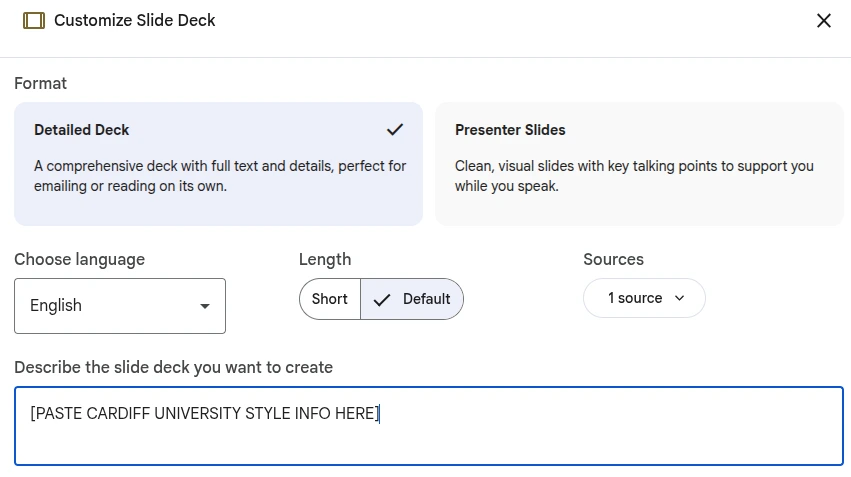
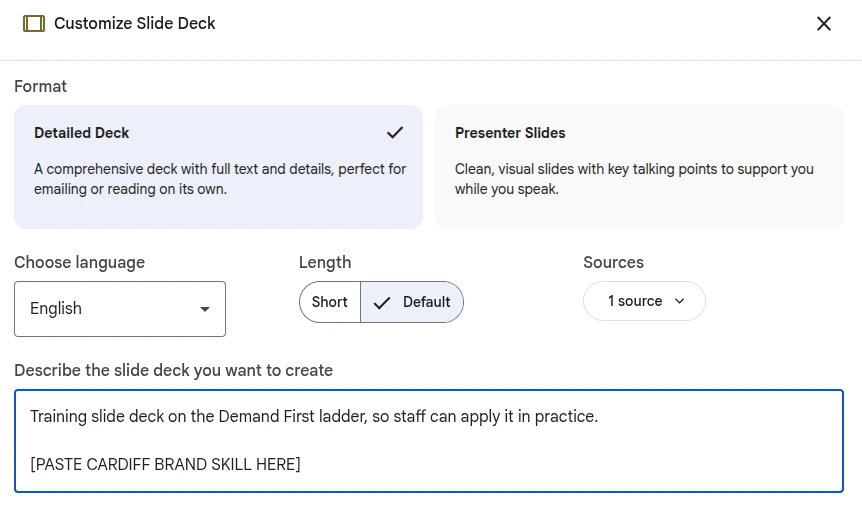
Rename the skill to Cardiff_Brand_SKILL.md, and flip the paste order
Matt's new screenshot of the Slide Deck dialog shows the prompt on the
first line and the skill pasted beneath it. Every instruction on the page
said the opposite, so anyone following it would have pasted them the wrong
way round. Corrected in the step body, the promptNote, the image alt and
the caption.

The rename covers make_artifacts.py, make_example_pdf.py, missions.js,
CLAUDE.md and the facilitator guide. The Python constant keeps its old
name: only the artefact handed out was renamed.

?doctor picks the new filename up automatically. Twelve files, all 200.

Claude-Session: https://claude.ai/code/session_01KojJyMqusRC38WKVGq91ET

diff --git a/src/data/missions.js b/src/data/missions.js
@@ -27,7 +27,7 @@
 //                                   participant's Deep Research quota is spent
 //                                   (5 runs a month on a base Education tier).
 //   Training_Module_Builder.md    - Exercises 04-06 hand out three working
-//   Cardiff_House_Style.md          skills as downloadable Markdown. They are
+//   Cardiff_Brand_SKILL.md          skills as downloadable Markdown. They are
 //   Fact_Check_Cardiff.md           generated by tools/make_artifacts.py and
 //                                   follow the Ordovera course-dev-skills
 //                                   anatomy: YAML front matter, an identity
@@ -310,9 +310,9 @@ const A = {
   },
   houseStyleSkill: {
     label: 'SKILL 2: MAKE IT CARDIFF',
-    filename: 'Cardiff_House_Style.md',
-    downloadPath: `${BASE}placeholders/Cardiff_House_Style.md`,
-    note: 'Builds it in Cardiff\'s voice and look. COPY it for the Slide Deck description box, or download it to attach in Copilot or Gemini.',
+    filename: 'Cardiff_Brand_SKILL.md',
+    downloadPath: `${BASE}placeholders/Cardiff_Brand_SKILL.md`,
+    note: 'Builds it in Cardiff\'s voice and look. COPY it into the Slide Deck description box, or download it to attach in Copilot or Gemini.',
     copyable: true,
   },
   exampleTraining: {
@@ -678,15 +678,15 @@ export const MISSIONS = [
         title: 'Paste the house style into Slide Deck',
         artifact: A.houseStyleSkill,
         body:
-          'In the Studio pane, click Slide Deck. Press COPY on the card below, then paste the style and the prompt into the description box. Do NOT add it as a source, or the deck becomes about the rules.',
+          'In the Studio pane, click Slide Deck. Paste the prompt into the description box, then COPY the skill below and paste it underneath. Do NOT add it as a source, or the deck becomes about the rules.',
         image: {
           src: 'notebook_slide_deck.webp',
           ui: true,
-          alt: 'Gemini Notebook\'s Customize Slide Deck dialog. Format offers Detailed Deck, ticked, or Presenter Slides. Below are language, length and sources controls, then a large field labelled Describe the slide deck you want to create, holding the placeholder PASTE CARDIFF UNIVERSITY STYLE INFO HERE.',
-          caption: 'Everything goes in the description box. Leave Detailed Deck and Default length alone.',
+          alt: 'Gemini Notebook\'s Customize Slide Deck dialog. Format offers Detailed Deck, ticked, or Presenter Slides. Below are language, length and sources controls, then a large field labelled Describe the slide deck you want to create, holding the prompt on the first line and the placeholder PASTE CARDIFF BRAND SKILL HERE beneath it.',
+          caption: 'Prompt first, skill underneath, both in the description box. Leave Detailed Deck and Default length alone.',
         },
         promptLabel: 'THE DECK DESCRIPTION',
-        promptNote: '[house style first, then this line underneath it]',
+        promptNote: '[then paste the Cardiff brand skill underneath this]',
         prompt:
           'Training slide deck on the Demand First ladder, so staff can apply it in practice.',
       },

diff --git a/tools/make_artifacts.py b/tools/make_artifacts.py
@@ -166,9 +166,7 @@ exactly. No deviations.
 ## WHEN TO USE IT
 
 Any time you are building slides, an infographic or a document for a Cardiff
-audience. If you are briefing a long research run that will end in a deck, attach
-this too, so what comes back is already in the style. Before you start, say in
-one line what you are building from.
+audience.
 
 ## DESIGN PHILOSOPHY
 
@@ -299,9 +297,6 @@ closers, Welsh first: a one or two word section name, never Welsh body text you
 invented. Photography is Cardiff University architecture at editorial scale, no
 stock images. No shadows, gradients, icons, emoji, illustrations, or decorative
 lines.
-
-Hand back the deck, then one short note of anything you could not do. Never claim
-a font or a colour you did not set.
 """
 
 FACT_CHECK_CARDIFF = """---
@@ -385,7 +380,7 @@ accountable for anything published.*
 
 SKILLS = {
     "Training_Module_Builder.md": TRAINING_MODULE_BUILDER,
-    "Cardiff_House_Style.md": CARDIFF_HOUSE_STYLE,
+    "Cardiff_Brand_SKILL.md": CARDIFF_HOUSE_STYLE,
     "Fact_Check_Cardiff.md": FACT_CHECK_CARDIFF,
 }
 

diff --git a/tools/make_example_pdf.py b/tools/make_example_pdf.py
@@ -8,7 +8,7 @@ Output:  public/placeholders/Example_Training_Session.pdf
 The source is a real output of Training_Module_Builder.md run on the sustainability
 plan, lightly copy-edited to UK English. Edit the markdown, not the PDF.
 
-Styled to Cardiff_House_Style.md: Cardiff Red #E4251B on headings, black text on
+Styled to Cardiff_Brand_SKILL.md: Cardiff Red #E4251B on headings, black text on
 white, #CCCCCC rules, #D9D9D9 panels. Franklin Gothic and Georgia are named first
 and fall back to what the machine has, since neither is installed here.
 """

diff --git a/CLAUDE.md b/CLAUDE.md
@@ -18,7 +18,7 @@ The AI in the Workplace Part 2 workshop website for Cardiff University staff: si
 
 **The workshop is split between two presenters, and this constrains editing.** Exercises 01-03 are Matt Hayden's: his prompts are held as `MH_*` constants at the top of `missions.js` and are VERBATIM from his deck (`AI in the workplace 2.pptx`, slides 7-24) and his covering email. The room follows his deck while working through the site, so any divergence shows up live. Do not reword, retitle, reformat or "improve" them. Exercises 04-06 are Matt Mort's and can be edited freely, to the prompt standard below.
 
-Exercise 02 works from a picture on the page (`public/cardiff_study_space.webp`) via the optional step `image` field. **04-06 hand out three working skills rather than asking anyone to write one** (redesigned 2026-09-04). The brief is to build staff training on the plan. 04 The Module runs `Training_Module_Builder.md`; 05 The House Style composes `Cardiff_House_Style.md` on top and then generates the deck; 06 The Check runs `Fact_Check_Cardiff.md` on what they built, then lands the day on the workflow record and the Jisc ladder. The skills are **downloaded, not copied**: that is the lesson. They are generated by `tools/make_artifacts.py`, follow the anatomy in `docs/research/2026-09-04-skill-authoring-patterns.md`, and must each stay under 7,000 characters so they paste into Copilot Agent Builder, whose instructions field holds 8,000. The limit was 6,000 until 2026-09-05; it was a safety margin rather than the real constraint, and defending it started costing load-bearing content. **Studio generations are the binding constraint** and Google publishes no number for infographics, decks or data tables; the design budgets one of each per participant, so do not add a step that regenerates. See `docs/research/2026-09-04-tool-capabilities.md`. Exercise 06 is the skill-file exercise: a prompt packaged as a plain text file you attach, deliberately NOT Gems, which Cardiff staff accounts cannot create (re-confirmed 2026-09-04, and it contradicts Google's published Education availability). Copilot Agent Builder and Gemini Skills in Chrome appear only as gated stretch paths.
+Exercise 02 works from a picture on the page (`public/cardiff_study_space.webp`) via the optional step `image` field. **04-06 hand out three working skills rather than asking anyone to write one** (redesigned 2026-09-04). The brief is to build staff training on the plan. 04 The Module runs `Training_Module_Builder.md`; 05 The House Style composes `Cardiff_Brand_SKILL.md` on top and then generates the deck; 06 The Check runs `Fact_Check_Cardiff.md` on what they built, then lands the day on the workflow record and the Jisc ladder. The skills are **downloaded, not copied**: that is the lesson. They are generated by `tools/make_artifacts.py`, follow the anatomy in `docs/research/2026-09-04-skill-authoring-patterns.md`, and must each stay under 7,000 characters so they paste into Copilot Agent Builder, whose instructions field holds 8,000. The limit was 6,000 until 2026-09-05; it was a safety margin rather than the real constraint, and defending it started costing load-bearing content. **Studio generations are the binding constraint** and Google publishes no number for infographics, decks or data tables; the design budgets one of each per participant, so do not add a step that regenerates. See `docs/research/2026-09-04-tool-capabilities.md`. Exercise 06 is the skill-file exercise: a prompt packaged as a plain text file you attach, deliberately NOT Gems, which Cardiff staff accounts cannot create (re-confirmed 2026-09-04, and it contradicts Google's published Education availability). Copilot Agent Builder and Gemini Skills in Chrome appear only as gated stretch paths.
 
 **Page order:** eyebrow, title and tool cards, then the `brief` (the goal, in black), then `toolInfo.feature` (what the tool is, in grey). Goal before explanation: the brief is what they came for. Set in `MissionDetail.jsx` and applies to all six.
 
@@ -40,7 +40,7 @@ Single-page React app (Vite, framer-motion). No router library. `App.jsx` render
 
 **Styling**: single file `src/styles.css`. Palette matched to the thematts google.html workshop page (page `#f5f5f7`, white cards, charcoal `#1d1d1f`, blue accent `#0071e3`) over the original tabloid/evidence-tag devices (stamps, tags, Playfair Display). CSS custom properties at `:root`; later "FIELD MISSIONS" and "GOOGLE-PAGE SKIN" sections override earlier rules by cascade order -- append restyles there rather than editing old blocks. Exercise grid auto-flows (not hard-wired to a card count).
 
-**Artifacts** are served from `public/placeholders/` and downloaded via a synthetic `<a download>` (same-origin only). A step can also carry its own card via the step field `artifact`, for a file used only at that point rather than for the whole exercise (Exercise 05 puts the house style skill inside the Slide Deck step). `DoctorPanel` collects step artifacts as well as `mission.artifacts`, so moving a file into a step does not drop it from the preflight. Text artifacts (`.md`, `.txt`) get three buttons of equal width: DOWNLOAD, VIEW IN BROWSER and a **COPY** button. VIEW opens a `text/plain` blob rather than linking the file, because servers send `.md` as `text/markdown` and browsers download that instead of rendering it. COPY exists that fetches the file and writes its contents to the clipboard, because a skill has to go two ways: attached as a file in Copilot or Gemini, or pasted into Gemini Notebook's Slide Deck description box, which takes text and not files. PDFs keep VIEW IN BROWSER instead; a `.md` link would only download again. Five files. Two are real and not generated: `Sustainable-Futures-en.pdf` (the published plan, 10.7 MB) and `Deep_research_output.pdf` (a real Deep Research run of Matt Hayden's Exercise 01 brief, and the input for the Copilot step when someone's monthly quota is spent). Three are the skill files generated by `python3 tools/make_artifacts.py`: `Training_Module_Builder.md`, `Cardiff_House_Style.md` and `Fact_Check_Cardiff.md`. `Document_QA_Skill.txt` was retired on 2026-09-04. `AI_Position_Statement.pdf` and `Policy_Landscape_Report.pdf` were deleted on 2026-09-04 with the move to a single anchor document, the old `Venture_*` files with the pivot before it, and the escaperoom `evidence_*`/`placeholder_*` images earlier the same day (git history has them all).
+**Artifacts** are served from `public/placeholders/` and downloaded via a synthetic `<a download>` (same-origin only). A step can also carry its own card via the step field `artifact`, for a file used only at that point rather than for the whole exercise (Exercise 05 puts the house style skill inside the Slide Deck step). `DoctorPanel` collects step artifacts as well as `mission.artifacts`, so moving a file into a step does not drop it from the preflight. Text artifacts (`.md`, `.txt`) get three buttons of equal width: DOWNLOAD, VIEW IN BROWSER and a **COPY** button. VIEW opens a `text/plain` blob rather than linking the file, because servers send `.md` as `text/markdown` and browsers download that instead of rendering it. COPY exists that fetches the file and writes its contents to the clipboard, because a skill has to go two ways: attached as a file in Copilot or Gemini, or pasted into Gemini Notebook's Slide Deck description box, which takes text and not files. PDFs keep VIEW IN BROWSER instead; a `.md` link would only download again. Five files. Two are real and not generated: `Sustainable-Futures-en.pdf` (the published plan, 10.7 MB) and `Deep_research_output.pdf` (a real Deep Research run of Matt Hayden's Exercise 01 brief, and the input for the Copilot step when someone's monthly quota is spent). Three are the skill files generated by `python3 tools/make_artifacts.py`: `Training_Module_Builder.md`, `Cardiff_Brand_SKILL.md` and `Fact_Check_Cardiff.md`. `Document_QA_Skill.txt` was retired on 2026-09-04. `AI_Position_Statement.pdf` and `Policy_Landscape_Report.pdf` were deleted on 2026-09-04 with the move to a single anchor document, the old `Venture_*` files with the pivot before it, and the escaperoom `evidence_*`/`placeholder_*` images earlier the same day (git history has them all).
 
 ## Deployment
 

diff --git a/tasks/todo.md b/tasks/todo.md
@@ -736,3 +736,19 @@ Matt supplied his separate plain-English writing skill and asked for some of it,
 **WHEN TO USE IT restored**, having been cut yesterday as over-complication. It is back because his own document has one and because it carries something the file otherwise lost: the instruction to attach this to a long research run so the report comes back already in the style.
 
 6,999 characters against the 7,000 guideline. One character. The next edit needs the trim planned rather than discovered.
+
+## 2026-09-05 (addendum 37): renamed to Cardiff_Brand_SKILL.md, and the paste order flipped
+
+Matt sent a new screenshot of the Slide Deck dialog and asked for the skill to be called `Cardiff_Brand_SKILL.md`.
+
+Renamed across `tools/make_artifacts.py`, `tools/make_example_pdf.py`, `src/data/missions.js`, `CLAUDE.md` and `FACILITATOR_GUIDE.md`, with the old file deleted. The Python constant keeps its old name deliberately: only the artefact Matt hands out was renamed, and churning the constant too would have made the diff harder to read for no gain.
+
+**The screenshot carried a change he did not mention, and it reversed an instruction.** His new capture shows the description box holding the prompt on the first line and `[PASTE CARDIFF BRAND SKILL HERE]` beneath it. Every instruction on the page said the opposite: the old note read "[house style first, then this line underneath it]" and the body said "paste the style and the prompt into the description box", in that order. Anyone following the page would have pasted them the wrong way round.
+
+Fixed in four places, since the order was baked into more of the step than expected: the step body, the `promptNote`, the image `alt`, and the caption. The caption now reads "Prompt first, skill underneath, both in the description box."
+
+Worth noting for its own sake: the on-screen order now matches the paste order exactly. The prompt box sits above the skill card because Matt asked for that a few edits ago, and the description box wants them in that same sequence. That was luck rather than design, but it is worth not breaking.
+
+`?doctor` reports twelve files, all 200, with the renamed skill picked up automatically because it derives from `MISSIONS`.
+
+**Left alone and worth a decision:** the workflow chip still says "Paste the house style" and the step title "Paste the house style into Slide Deck", while the file is now `Cardiff_Brand_SKILL.md` and its card reads "SKILL 2: MAKE IT CARDIFF". Three names for one thing. Not changed because that copy has been hand-tuned repeatedly and the rename was the only instruction given.

diff --git a/FACILITATOR_GUIDE.md b/FACILITATOR_GUIDE.md
@@ -89,7 +89,7 @@ Teaching point: attach a real spreadsheet, insist on Python, and the numbers are
 ### The skills we hand out
 Downloads, not copy-and-paste. Generated by `tools/make_artifacts.py`, all under 6,000 characters so they paste into Copilot Agent Builder's instructions field.
 - `Training_Module_Builder.md` - drafts the session, cites the source, and refuses to invent a criterion.
-- `Cardiff_House_Style.md` - Matt's own Cardiff slide design spec, with the point sizes flagged as master-file scale, the stray #E5251A corrected to #E4251B, and one added section, **READING LEVEL AND PLAIN ENGLISH**. That section is the one doing the teaching: the design carries itself, and what fails in a generated deck is the words staying as dense as the source they came from. It sets 20 words a sentence (the GOV.WALES rule), 40 words a slide, no jargon without a half-line definition, and a test anyone can apply: a line that only works for someone who has already read the source has failed. The evidence is in `docs/research/2026-09-04-cardiff-template-design-system.md`.
+- `Cardiff_Brand_SKILL.md` - Matt's own Cardiff slide design spec, with the point sizes flagged as master-file scale, the stray #E5251A corrected to #E4251B, and one added section, **READING LEVEL AND PLAIN ENGLISH**. That section is the one doing the teaching: the design carries itself, and what fails in a generated deck is the words staying as dense as the source they came from. It sets 20 words a sentence (the GOV.WALES rule), 40 words a slide, no jargon without a half-line definition, and a test anyone can apply: a line that only works for someone who has already read the source has failed. The evidence is in `docs/research/2026-09-04-cardiff-template-design-system.md`.
 - `Fact_Check_Cardiff.md` - **not used by any exercise since 06 became the data analysis.** It is still generated and still good: evidence ledger, seven verdicts, named flags, adapted with credit from fact-check v0.2. Either hand it out as a take-home or retire it; it is currently reachable by nobody.
 Provenance, the anatomy they follow and the licence position are in `docs/research/2026-09-04-skill-authoring-patterns.md`. `Document_QA_Skill.txt` was retired on 2026-09-04.
 

diff --git a/public/placeholders/Cardiff_Brand_SKILL.md b/public/placeholders/Cardiff_Brand_SKILL.md
@@ -11,9 +11,7 @@ exactly. No deviations.
 ## WHEN TO USE IT
 
 Any time you are building slides, an infographic or a document for a Cardiff
-audience. If you are briefing a long research run that will end in a deck, attach
-this too, so what comes back is already in the style. Before you start, say in
-one line what you are building from.
+audience.
 
 ## DESIGN PHILOSOPHY
 
@@ -144,6 +142,3 @@ closers, Welsh first: a one or two word section name, never Welsh body text you
 invented. Photography is Cardiff University architecture at editorial scale, no
 stock images. No shadows, gradients, icons, emoji, illustrations, or decorative
 lines.
-
-Hand back the deck, then one short note of anything you could not do. Never claim
-a font or a colour you did not set.
